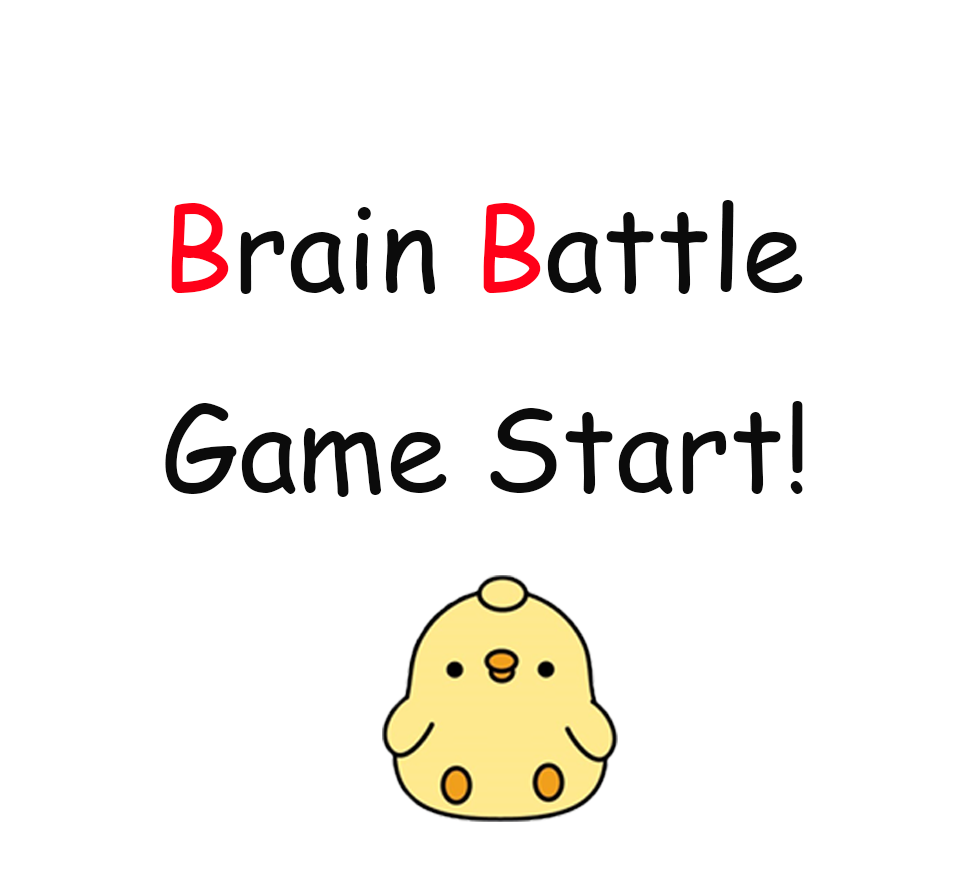
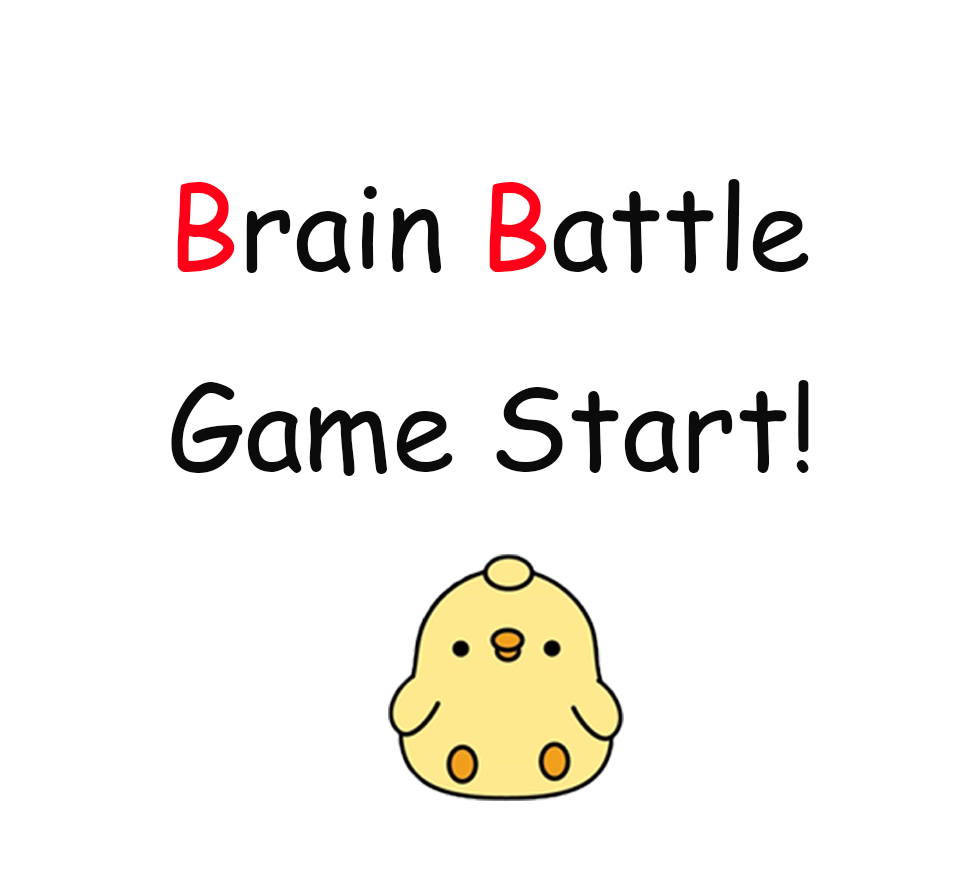
1116
타이머, 이미지크기 수정

diff --git a/src/thread/GameThread.java b/src/thread/GameThread.java
@@ -28,10 +28,11 @@ public class GameThread extends Thread {
 	public void run() {
 		try {
 			writer = new PrintWriter(socket.getOutputStream(),true);
+			TimerThread timer = new TimerThread(mainFrame);
 			mainFrame.getGame().getEnter().addActionListener(new AnswerSendEvent());
 			mainFrame.getGame().getTf().addActionListener(new AnswerSendEvent());
 
-
+			
 			mainFrame.getGame().getQuiz().setVisible(true);
 			Thread.sleep(1000);
 			mainFrame.getGame().getQuiz().setIcon(new ImageIcon(this.getClass().getClassLoader().getResource("StartCount2.png")));
@@ -40,6 +41,7 @@ public class GameThread extends Thread {
 			Thread.sleep(1000);
 			mainFrame.getGame().getQuiz().setIcon(new ImageIcon(this.getClass().getClassLoader().getResource("GameStart.png")));
 			Thread.sleep(1000);
+			mainFrame.getGame().getTimer().setVisible(true);
 			while(true) {
 				if(mainFrame.getScore().getMyScore() == mainFrame.getGame().getGoalScore()) {
 					mainFrame.getGame().getQuiz().setIcon(new ImageIcon(this.getClass().getClassLoader().getResource("GameOver.png")));
@@ -49,11 +51,12 @@ public class GameThread extends Thread {
 					mainFrame.getGame().getQuiz().setIcon(new ImageIcon(this.getClass().getClassLoader().getResource("GameOver.png")));
 					break;
 				}
-				mainFrame.getGame().getQuiz().setIcon(new ImageIcon(this.getClass().getClassLoader().getResource(questionArray[questionIndex])));
 				if(mainFrame.getGame().getTurnEnd()) {
 					questionIndex++;
 					mainFrame.getGame().setTurnEnd(false);
 				}
+				mainFrame.getGame().getQuiz().setIcon(new ImageIcon(this.getClass().getClassLoader().getResource(questionArray[questionIndex])));
+				timer.start();
 			}
 		} catch (IOException e1) {
 			e1.printStackTrace();

diff --git a/src/thread/TimerThread.java b/src/thread/TimerThread.java
@@ -1,0 +1,36 @@
+package thread;
+
+import javax.swing.ImageIcon;
+
+import gui.MainFrame;
+
+public class TimerThread extends Thread{
+	MainFrame mainFrame;
+	String [] timer = {"T60.png", "T59.png", "T58.png", "T57.png", "T56.png","T55.png", "T54.png",
+			"T53.png", "T52.png", "T51.png", "T50.png", "T49.png", "T48.png", "T47.png",
+			"T46.png", "T45.png", "T44.png", "T43.png", "T42.png", "T41.png", "T40.png", 
+			"T39.png", "T38.png", "T37.png", "T36.png", "T35.png", "T34.png", "T33.png",
+			"T32.png", "T31.png", "T30.png", "T29.png", "T28.png", "T27.png", "T26.png",
+			"T25.png", "T24.png", "T23.png", "T22.png", "T21.png", "T20.png", "T19.png",
+			"T18.png", "T17.png", "T16.png", "T15.png", "T14.png", "T13.png", "T12.png",
+			"T11.png", "T10.png", "T9.png", "T8.png", "T7.png", "T6.png", "T5.png",
+			"T4.png", "T3.png", "T2.png", "T1.png"};
+	public TimerThread(MainFrame mainFrame) {
+		this.mainFrame = mainFrame;
+	}
+	@Override
+	public void run() {
+		try {
+			for(int i=0; i<timer.length; i++) {
+				mainFrame.getGame().getTimer().setIcon(new ImageIcon(this.getClass().getClassLoader().getResource(timer[i])));
+				Thread.sleep(1000);
+			}
+			mainFrame.getGame().setTurnEnd(true);
+		} catch (InterruptedException e) {
+			e.printStackTrace();
+		} catch (IllegalThreadStateException e) {
+			
+		}
+	}
+}
+

diff --git a/src/gui/GamePanel.java b/src/gui/GamePanel.java
@@ -40,6 +40,7 @@ public class GamePanel extends JPanel{
 	private int scoreImgIndexCount = 0;
 	private boolean playOk =false;
 	private boolean turnEnd = false;
+	private JLabel timer = new JLabel(new ImageIcon(this.getClass().getClassLoader().getResource("T60.png")));
 
 
 	public GamePanel() {
@@ -51,7 +52,11 @@ public class GamePanel extends JPanel{
 		add(readyOk);
 		add(waitGoalScore);
 		add(rule);
+		add(timer);
 		
+		timer.setBounds(829, 2, 150, 150);
+		
+		timer.setVisible(false);
 		quiz.setVisible(false);
 		readyOk.setVisible(false);
 		waitGoalScore.setVisible(false);
@@ -111,11 +116,17 @@ public class GamePanel extends JPanel{
 	public JTextField getTf() {
 		return tf;
 	}
+	public JButton getRuleButton() {
+		return ruleButton;
+	}
 	public boolean getTurnEnd() {
 		return turnEnd;
 	}
 	public void setTurnEnd(boolean turn) {
 		turnEnd = turn;
+	}
+	public JLabel getTimer() {
+		return timer;
 	}
 	public void setTfAndEnter() {
 		add(tf);
